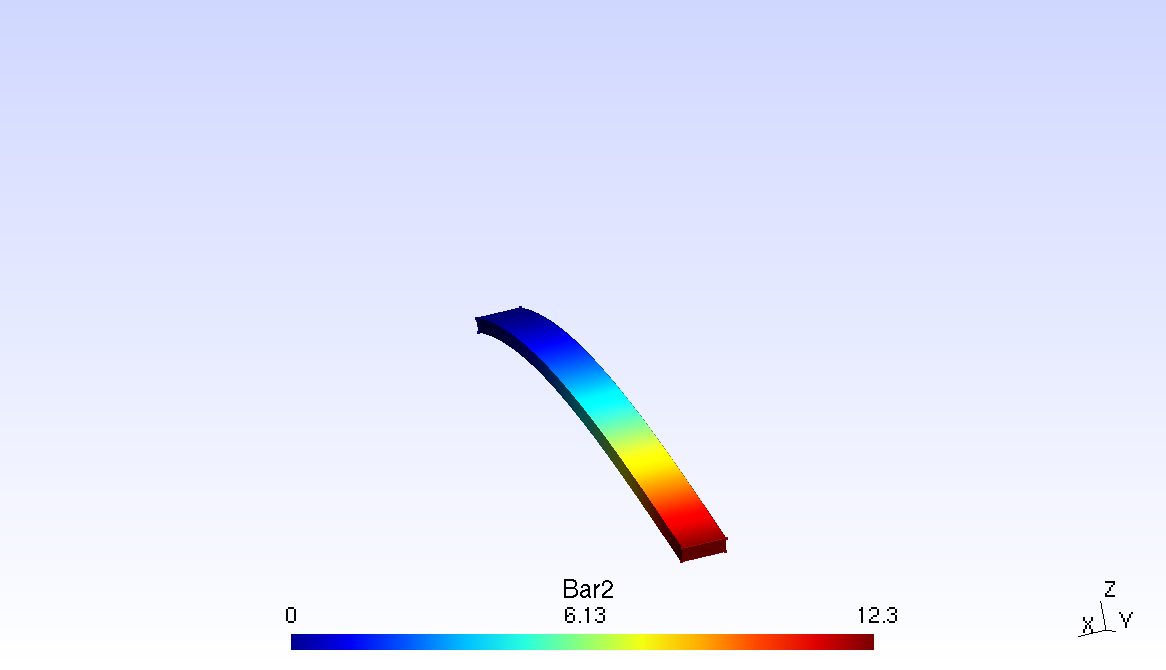
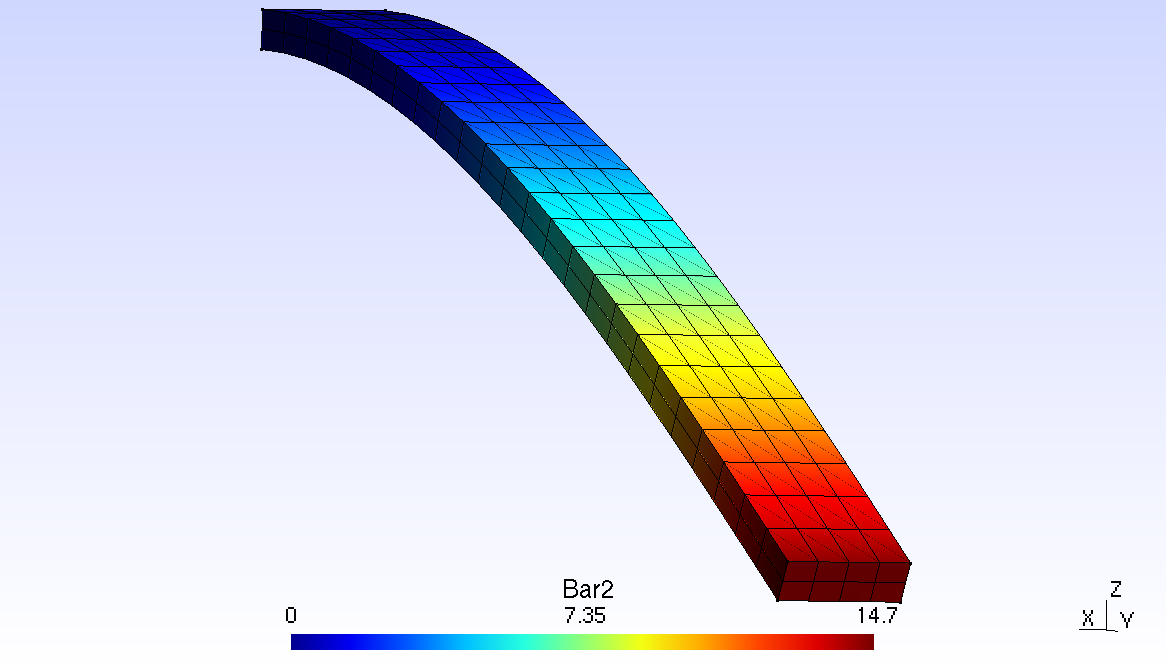
Some updates to Gauss File Loading and README

Changed region(s): [[0.2161, 0.0, 0.8027, 0.9254], [0.9262, 0.8955, 0.9571, 0.9552], [0.494, 0.8955, 0.5249, 0.9254]]

diff --git a/Cpp/Integrator/SystemAssembly.hpp b/Cpp/Integrator/SystemAssembly.hpp
@@ -70,23 +70,6 @@ public:
             {
                 RunLocalIntegration();
                 umat positions=NodePositions[ElmntTyp].row(a_Internal.ElementNumber);
-                /*umat locations(2,positions.n_cols*positions.n_cols);
-                int locationPtr=0;
-                for (int row=0;row<positions.n_cols;row++)
-                {
-                    for (int col=0;col<positions.n_cols;col++)
-                    {
-                        umat locations1;
-                        locations1<<positions(row)<<endr<<positions(col)<<endr;
-                        locations.col(locationPtr)=locations1;
-                        locationPtr++;
-                    }
-                }
-                vec values=vectorise(mat(a_Internal.ResultingMat.t()));
-                //cout<<"Size of locations ="<<locations.n_rows<<","<<locations.n_cols<<"\n";
-                //cout<<"Size of values ="<<values.n_rows<<","<<values.n_cols<<"\n";
-                sp_mat A_temp=sp_mat(add_values, locations, values, A.n_rows, A.n_cols, sort_locations, check_for_zeros);*/
-
                 sp_mat A_temp=BatchFill_Atemp(A, ElmntTyp, positions);
                 //cout<<"ElmntNmbr ="<<ElmntNmbr<<"\n"<<mat(a_Internal.ResultingMat)<<"\n";
                 A=A+A_temp;
@@ -113,7 +96,6 @@ public:
             {
                 RunLocalIntegrationVector();
                 umat positions=NodePositions[ElmntTyp].row(a_Internal.ElementNumber);
-                //umat temp=vectorise(unique(u_Internal.ElmntNodes[ElmntTyp]));
                 //cout<<"Neumann Condition applied over "<<u_Internal.Msh->NodalCoordinates.rows(temp)<<"\n";
                 umat positions2={0};
                 b.submat(positions, positions2)=b.submat(positions, positions2)+a_Internal.ResultingVector;
@@ -133,6 +115,8 @@ private:
     sp_mat* A_Internal;
     mat * b_Internal;
 
+    /// This function fill ups the A_temp or rather the local matrix for the element.
+    /// The current value of the local element is stored in the 'a_Internal.ResultingMat' matrix.
     inline sp_mat BatchFill_Atemp(sp_mat& A, int& ElmntTyp, const umat& positions)
     {
         //Configuration for Batch addition of matrix to global matrix

diff --git a/Cpp/FEMtools/LoadGaussFile.cpp b/Cpp/FEMtools/LoadGaussFile.cpp
@@ -44,6 +44,7 @@ std::string FEMtools::LoadGaussFile(const libGmshReader::MeshReader &Mesh, const
     //For Quadrilaterals
     else if (ElementName.compare("Quadrilateral")==0)
     {
+        p=p*2;
         FEMtools::TensorGauss(p, n, GaussFileName);
     }
     //For Tetrahedrals
@@ -65,6 +66,7 @@ std::string FEMtools::LoadGaussFile(const libGmshReader::MeshReader &Mesh, const
     //For Hexahedrals
     else if (ElementName.compare("Hexahedron")==0)
     {
+        p=p*3;
         FEMtools::TensorGauss(p, n, GaussFileName);
     }
     else if (ElementName.compare("Prism")==0)
@@ -86,8 +88,8 @@ std::string FEMtools::LoadGaussFile(const libGmshReader::MeshReader &Mesh, const
 
 void FEMtools::TensorGauss(int &p, float &n, std::string &GaussFileName)
 {
-    //n=(p+2.0)/(2.0);
-    n=p+1;
+    n=(p+2.0)/(2.0);
+    //n=p+1;
     n=std::ceil(n);
     GaussFileName=GaussFileName+"Data/n"+std::to_string(int (n));
 }
